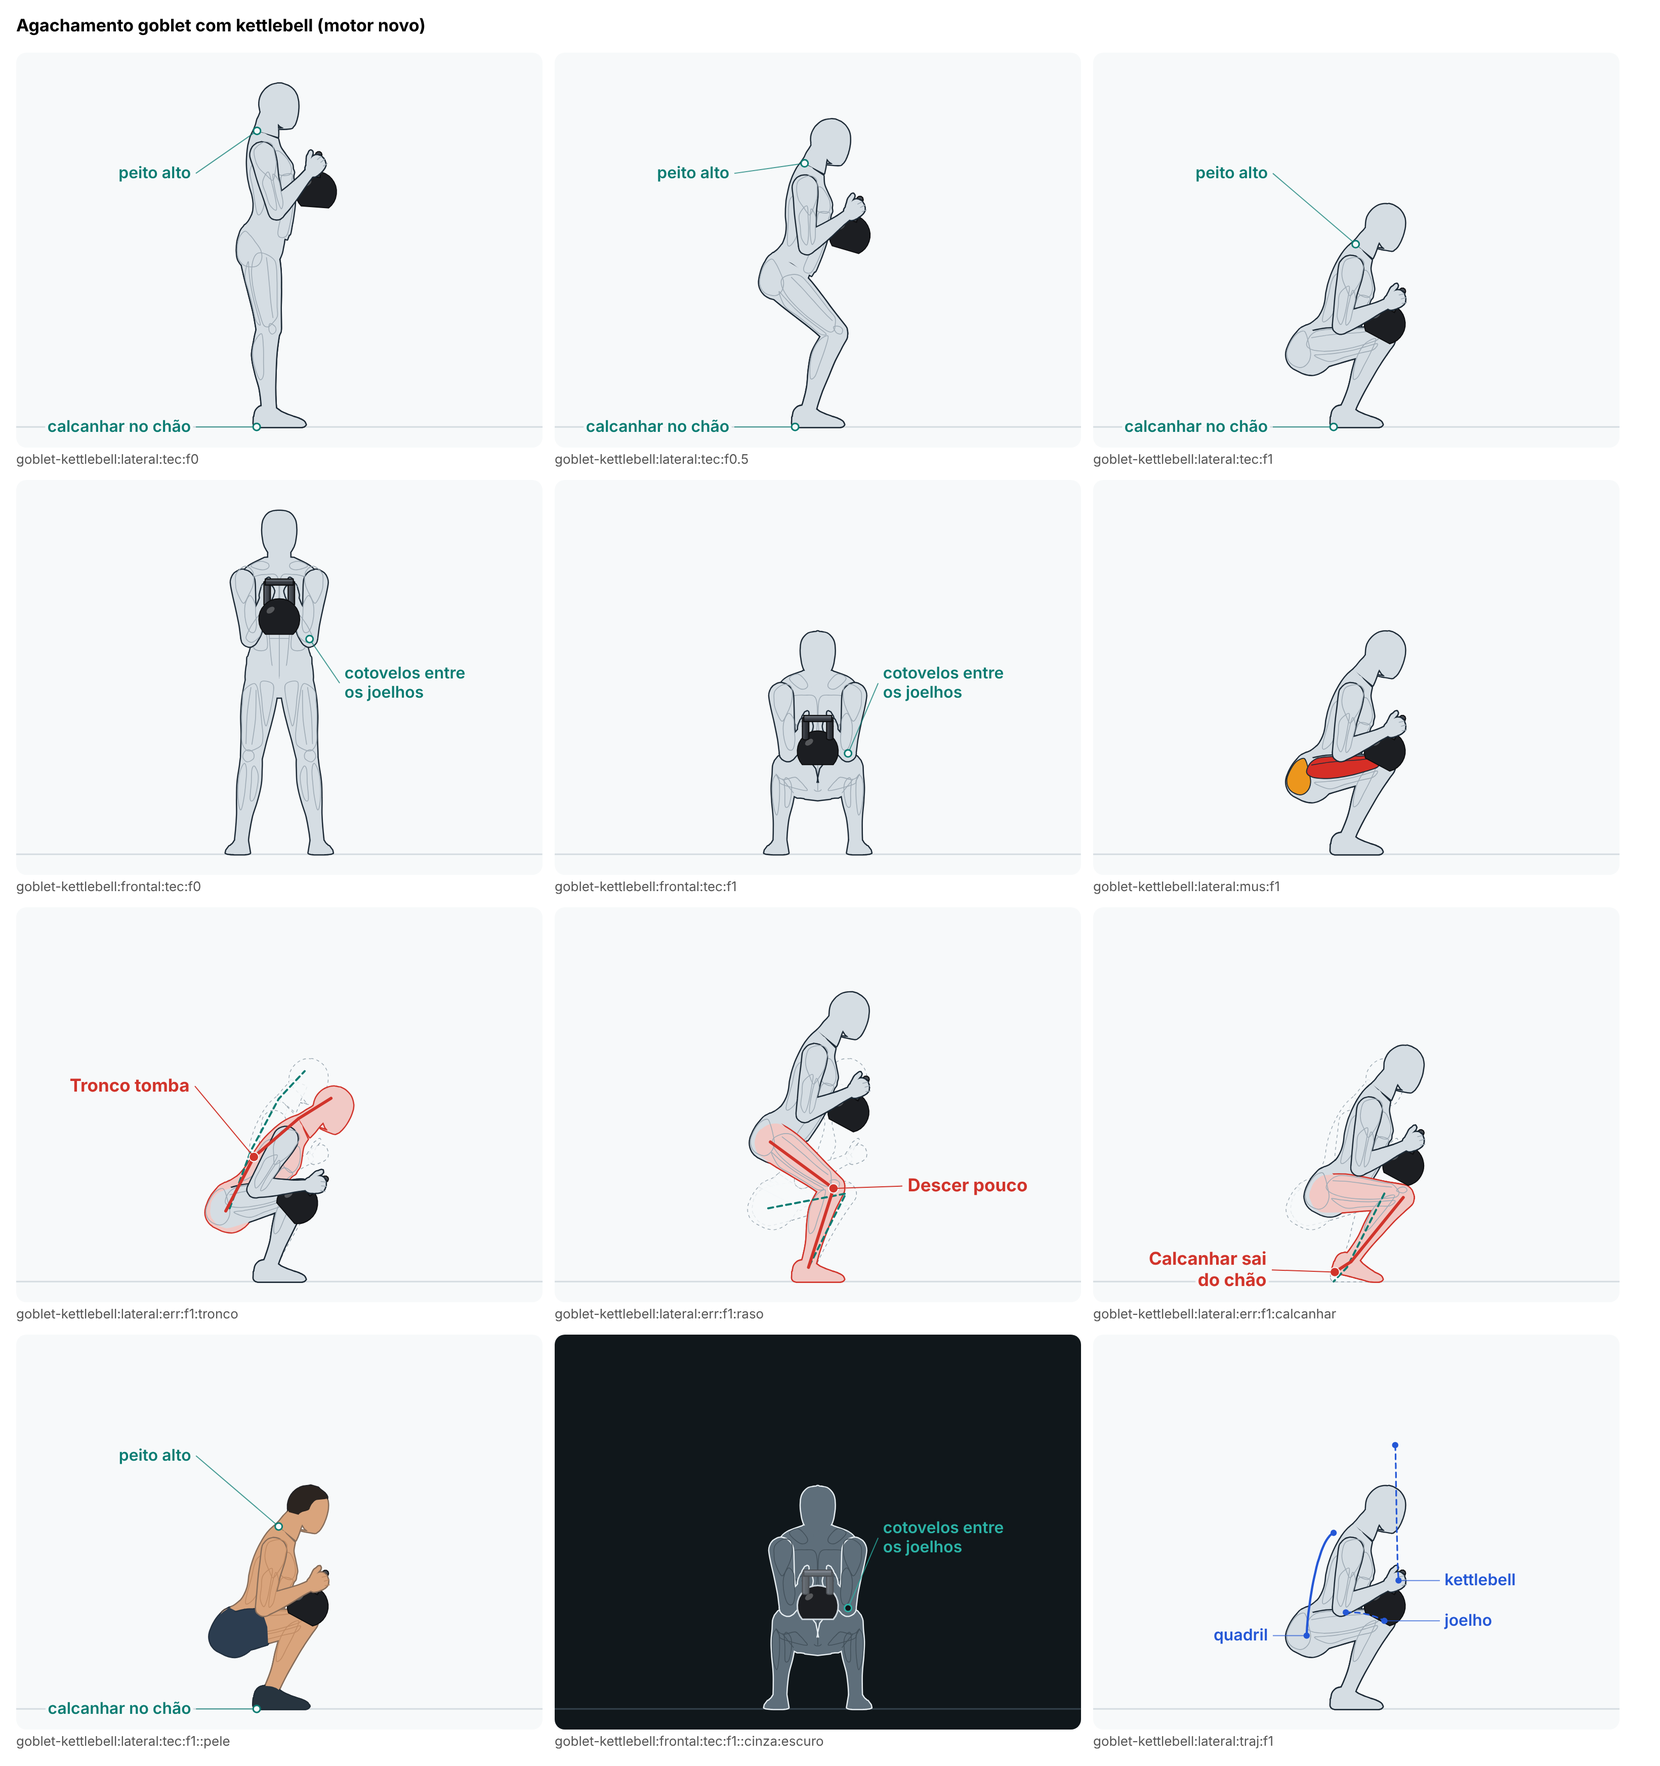
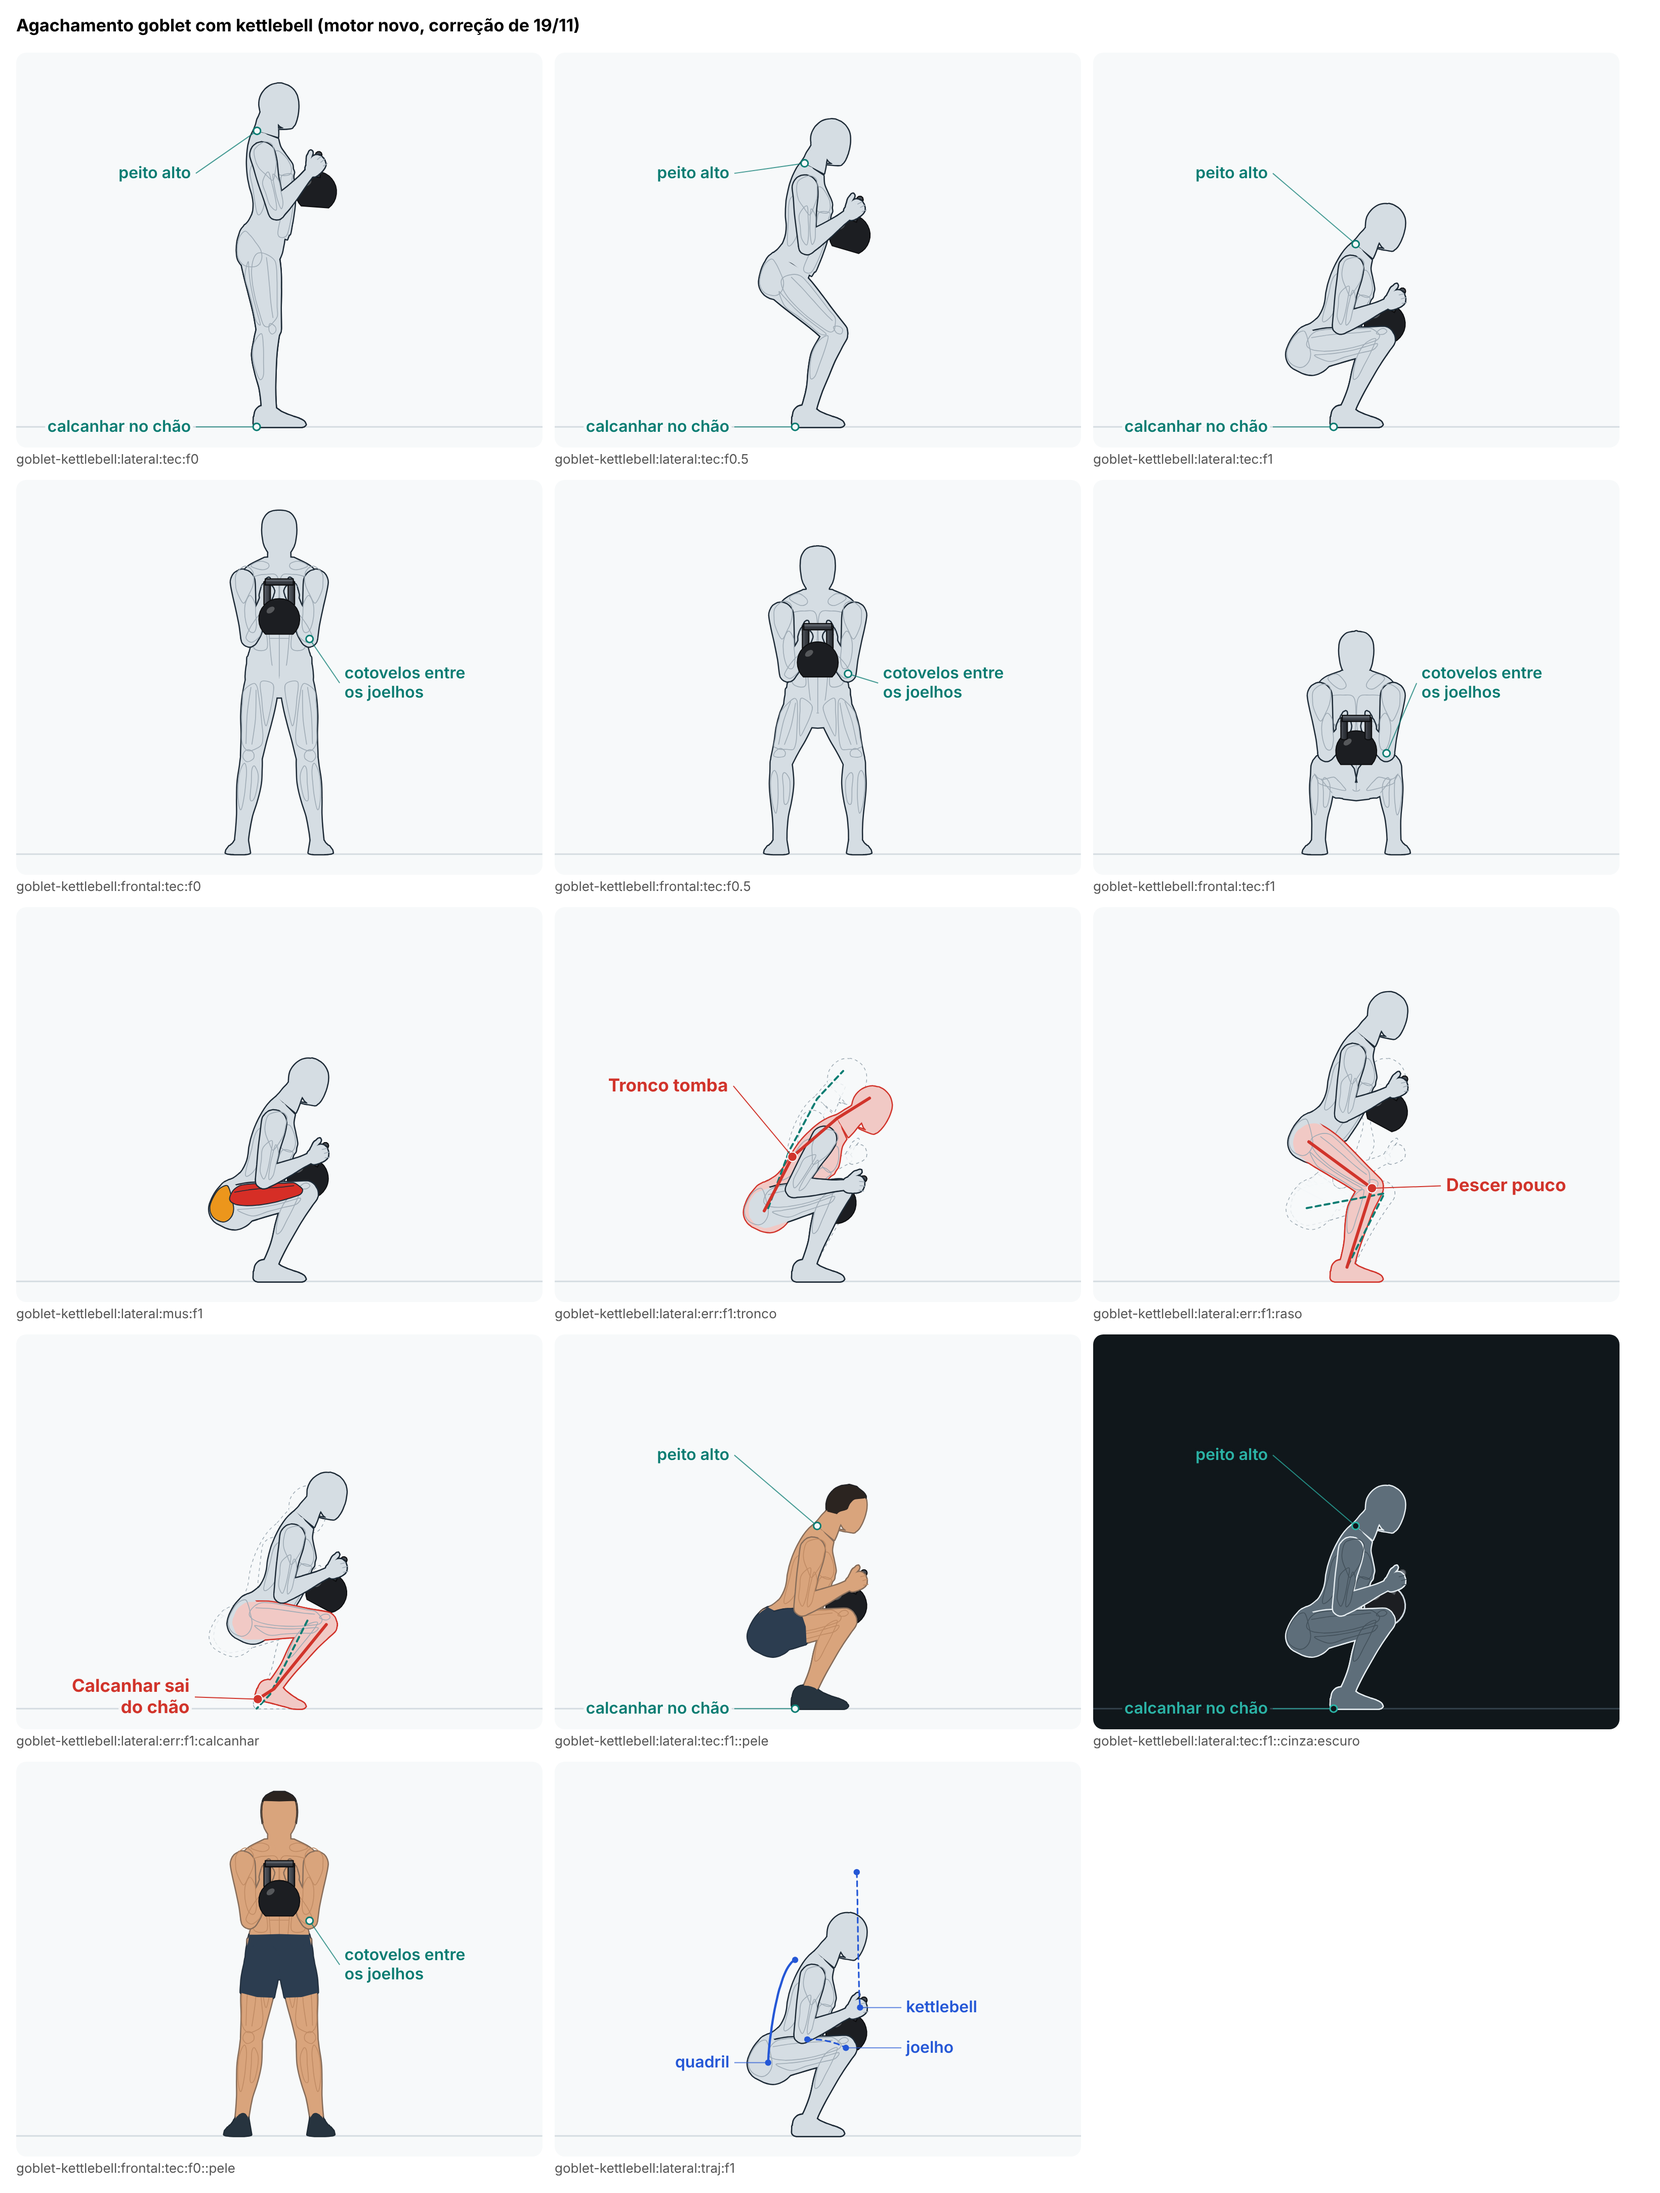
Corrige o kettlebell por cima do joelho de perto no goblet
De lado, embaixo, a bola empatava com o corpo na pintura e a haste de
perto da alça saía por cima do joelho de perto, 17,6 cm mais perto de
quem olha. O corpo vem 4 cm para a frente do kettlebell nessa vista.
Regra nova goblet-kettlebell-pintado-no-lugar.

Claude-Session: https://claude.ai/code/session_01YRzts8DBGbsca9onebcMt1

diff --git a/src/engine/novo/regras/goblet-kettlebell.ts b/src/engine/novo/regras/goblet-kettlebell.ts
@@ -6,7 +6,10 @@ import type { Regra } from '../conferir-util';
 import { formaDoKettlebell } from '../equipamento';
 import { LADOS } from '../esqueleto';
 import type { Quadro } from '../movimento';
-import { angulo, dist, sub } from '../vec';
+import { gobletKettlebell } from '../exercicios/goblet-kettlebell';
+import { angulo, comb, dist, norm, sub } from '../vec';
+import type { V3 } from '../vec';
+import { regraDePintura } from './ordem-de-pintura';
 import { folgaDaCarga } from './stiffs';
 
 /** A peça do kettlebell no quadro (base, cima e lado). */
@@ -25,6 +28,26 @@ function folgaNoTronco(q: Quadro): number {
 }
 
 export const regrasDoGobletKettlebell: Record<string, Regra> = {
+  // O kettlebell (a bola, as duas hastes e a barra da alça, na ordem em que a peça as desenha) contra o corpo, nos dois
+  // lados, em cada vista do guia (acréscimo de 19/11, auditoria das fases A e B): de lado, embaixo, a bola, que fica
+  // entre os joelhos, empatava com o tronco na pintura e saía por cima do joelho de perto. As mãos fecham na alça e não
+  // contam.
+  'goblet-kettlebell-pintado-no-lugar': regraDePintura({
+    exercicio: () => gobletKettlebell,
+    nome: 'o kettlebell',
+    fora: ['mao', 'polegar'],
+    peca: (q) => {
+      const p = peca(q);
+      const K = formaDoKettlebell();
+      const u = norm(p.cima),
+        l = norm(p.lado);
+      const P = (h: number, x = 0): V3 => comb([1, p.base], [h, u], [x, l]);
+      const alto = K.altura - K.rAlca,
+        pe = K.centro + Math.sqrt(Math.max(0, K.R * K.R - K.meiaAlca * K.meiaAlca)) - 1;
+      const haste = (s: number, i: number) => ({ eixo: [P(pe, s * K.meiaAlca), P(alto, s * K.meiaAlca)], raio: K.rAlca, itens: [i] });
+      return [{ peca: p, partes: [{ eixo: [P(K.centro)], raio: K.R, itens: [0] }, haste(-1, 1), haste(1, 2), { eixo: [P(alto, -K.meiaAlca - K.rAlca * 0.6), P(alto, K.meiaAlca + K.rAlca * 0.6)], raio: K.rAlca, itens: [3] }] }];
+    },
+  }),
   'goblet-kettlebell-junto-ao-peito': (q) => {
     const K = formaDoKettlebell();
     const amostra = q.filter((_, i) => i % 3 === 0 || i === q.length - 1);

diff --git a/src/engine/novo/exercicios/goblet-kettlebell.ts b/src/engine/novo/exercicios/goblet-kettlebell.ts
@@ -85,8 +85,20 @@ function quadro(corpo: Corpo, u: number, erro?: string): Quadro {
     fios: [],
     cargas: [{ massa, pos: centro }],
     marcas: { kettlebell: meio },
+    // De lado, o kettlebell (no meio, entre os joelhos embaixo) e o tronco com as pernas de perto (um item só, pintado
+    // pela média das partes) ficavam na mesma profundidade de pintura, e a bola e a haste de perto da alça saíam por
+    // cima do joelho de perto, que está 17,6 cm mais perto de quem olha. O corpo vem um pouco para a frente na pintura,
+    // ainda atrás do braço de perto (que segura a alça); a regra goblet-kettlebell-pintado-no-lugar mede, nos dois lados
+    // e nas duas vistas.
+    viesNaVista: { lateral: { corpo: VIES_DE_LADO } },
   };
 }
+/**
+ * Quanto o corpo vem para a frente do kettlebell na pintura, de lado (cm de profundidade): a haste de perto da alça era
+ * pintada 0,2 cm à frente do joelho de perto; com 4 cm, o joelho passa a ela com 3,8 cm de folga, e o braço de perto
+ * continua 6,4 cm à frente do corpo.
+ */
+const VIES_DE_LADO = 4;
 
 export const gobletKettlebell: Exercicio = {
   ficha: F,

diff --git a/docs/revisoes/animacao-nova/lote-A3/goblet-kettlebell.md b/docs/revisoes/animacao-nova/lote-A3/goblet-kettlebell.md
@@ -59,3 +59,15 @@ O kettlebell da tabela de objetos (modelo de competição, medidas de fabricante
 - **O rótulo "cotovelos entre os joelhos"** (de frente) aponta para o cotovelo também no quadro "Em pé", quando ele ainda está na altura do peito: o texto fala do fundo. É a dica do cartão ("Amplitude"); a outra opção era "joelho na direção do pé" do goblet aprovado, que não é dica deste cartão.
 - **De lado, o punho fica por cima da alça** e a alça não aparece (a mão a cobre): o kettlebell se lê pela bola. De frente a alça e as duas mãos aparecem.
 - **No erro "Tronco tomba" a lombar também dobra**, embora o cartão fale só do tronco: sem isso a pose seria impossível (o quadril passaria do que dobra). Está dito acima.
+
+## Correção de 19/11 (auditoria)
+
+A auditoria das fases A e B (M3) achou que, de lado, embaixo, o kettlebell, que fica entre os joelhos, era pintado por cima do joelho de perto, que está 17,6 cm mais perto de quem olha. **Causa:** a bola empatava com o item do corpo (d = 0) e a haste de perto da alça ficava 0,2 cm à frente dele.
+
+**O que mudou.** Só no exercício: `viesNaVista` de lado traz o corpo (o tronco com as pernas de perto) 4 cm para a frente do kettlebell na pintura; o braço de perto, que segura a alça, continua 6,4 cm à frente do corpo. A regra nova `goblet-kettlebell-pintado-no-lugar` mede a bola, as duas hastes e a barra da alça contra cada parte do corpo, dos dois lados, nas duas vistas (as mãos, na alça, não contam).
+
+**Antes → depois** (pior quadro, cm de folga de pintura): de lado, a perna direita, que esconde o kettlebell, −0,2 → 3,8; a perna esquerda (atrás dele) 4,7 e o braço esquerdo 10,4, sem mudança. De frente, o tronco 18,9 e os braços 4,7, sem mudança. Em pé, a bola encostada no peito se desenha igual a antes (ela não se cruza com o tronco na tela). A regra falha no estado antigo e passa no novo; a conferência automática dá 0 falha e os mesmos 3 avisos.
+
+Como a ordem de pintura é medida (a regra nova, com o núcleo em `src/engine/novo/regras/ordem-de-pintura.ts`): em cada vista do guia (as do exercício e as dos erros), a cada 3 quadros do movimento certo e em cada erro no começo, no meio e no fim, um raio sai de cada ponto do eixo da peça até quem olha e de cada ponto da pele virada para quem olha (a 85% do raio) até quem olha; se ele atravessa o corpo (os dois lados, cada grupo à parte), aquela parte do corpo tem de ser pintada depois do item que pinta a peça; se atravessa a peça, antes. A folga é a diferença de profundidade de pintura (cm; negativa = ordem errada). Contam só os cruzamentos de 4 pontos ou mais; a pele que fica dentro de outra parte do corpo ou dentro da própria peça não conta; quando a mesma parte esconde e é escondida pela mesma peça, vale o lado com mais pontos.
+
+**O que ainda não ficou bom.** No erro "Tronco tomba", os antebraços continuam entrando nas coxas (pequeno da auditoria, fora deste pedido).
